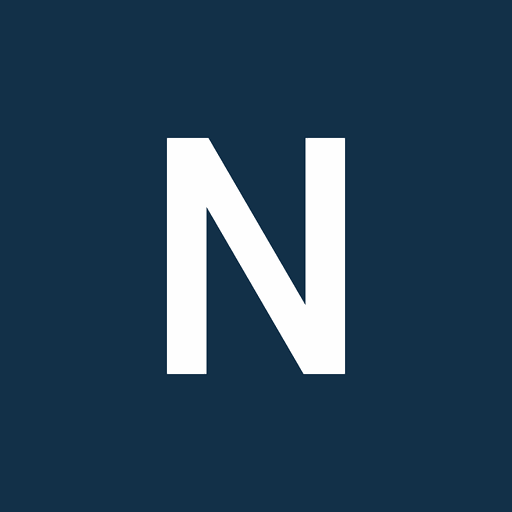
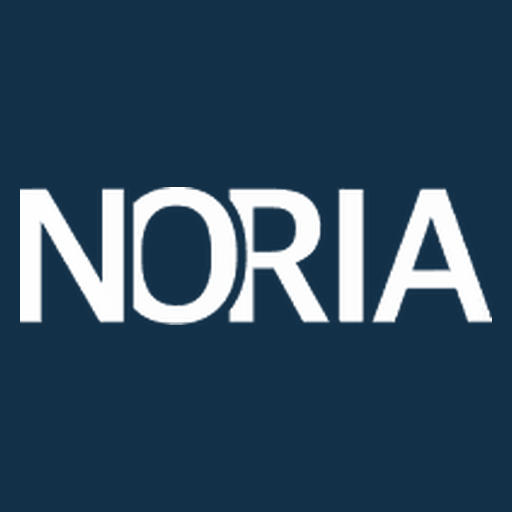
fix: icône et splash NORIA Élève au mot-symbole (1.0.2)
Le lanceur montrait le N blanc de src/icon-512.png. Le mot-symbole
NORIA, blanc sur #123048, tient dans la zone sûre adaptative.
versionCode 3, versionName 1.0.2.

Changed region(s): [[0.0312, 0.25, 0.9688, 0.75]]

diff --git a/android/eleve/scripts/generer-icones.py b/android/eleve/scripts/generer-icones.py
@@ -1,9 +1,23 @@
 #!/usr/bin/env python3
-"""Régénère les icônes Android à partir des visuels déjà dans le dépôt.
+"""Régénère les icônes Android à partir du mot-symbole NORIA.
 
-Source du lanceur et de l'écran de démarrage : src/icon-512.png (N blanc sur fond marine).
-Source de la bannière Play Console : src/noria-logo.png (mot-symbole).
-Aucune image n'est dessinée à la main : on recadre et on redimensionne.
+Source : src/noria-logo.png (mot-symbole + slogan, fond transparent).
+On ne garde que la bande « NORIA ». Le slogan (« Une école, une famille
+et un avenir ») disparaît à la taille d'une icône.
+
+Le fichier « blanc » joint à la demande est le même mot-symbole bleu posé
+sur une plaque blanche, pas un glyphe clair. Le glyphe blanc est donc
+dérivé ici : on garde l'alpha du logo et on peint les pixels en blanc.
+
+Fond retenu : bleu marine #123048 (déjà iconBackground, favicon, ancien N).
+À 48 px le blanc sur marine reste plus lisible que le bleu sur blanc :
+les traits clairs tiennent, et le carré ne se fond pas dans un lanceur clair.
+
+Zone sûre adaptative : cercle de 66 dp dans un calque de 108 dp. Le
+rectangle du mot-symbole est inscrit dans ce cercle (marge comprise).
+Les mipmap historiques (Android 7) et la fiche Play n'ont pas ce calque :
+le mot-symbole y est inscrit dans le cercle du carré, pour rester lisible
+de 48 à 192 px.
 """
 from pathlib import Path
 
@@ -22,32 +36,90 @@ DENSITIES = {
     "mipmap-xxxhdpi": 192,
 }
 
+# Bleu marine du favicon et de l'ancien N (src/favicon.svg, colors.xml).
+NAVY = (0x12, 0x30, 0x48, 255)
+
+# Marge à l'intérieur du cercle, pour que l'anticrénelage ne touche pas le masque.
+SAFE_MARGIN = 0.96
+
+
+def wordmark():
+    """Bande NORIA seule, glyphe blanc, alpha d'origine."""
+    logo = Image.open(ROOT / "src" / "noria-logo.png").convert("RGBA")
+    # Le slogan commence vers y=96 (fichier 253×136). On coupe avant.
+    band = logo.crop((0, 0, logo.width, 90))
+    alpha = band.getchannel("A")
+    bbox = alpha.point(lambda p: 255 if p > 20 else 0).getbbox()
+    if bbox is None:
+        raise SystemExit("mot-symbole introuvable dans src/noria-logo.png")
+    cropped = band.crop(bbox)
+    white = Image.new("RGBA", cropped.size, (255, 255, 255, 0))
+    white.putalpha(cropped.getchannel("A"))
+    return white
+
+
+def max_width_fraction(aspect, diameter_fraction):
+    """Plus grande largeur d'un rectangle (aspect largeur/hauteur) inscrit dans un cercle."""
+    radius = diameter_fraction / 2
+    return (2 * radius / (1 + 1 / aspect**2) ** 0.5) * SAFE_MARGIN
+
+
+def compose(size, mark, width_fraction, background):
+    canvas = Image.new("RGBA", (size, size), background)
+    tw = max(1, round(size * width_fraction))
+    th = max(1, round(tw * mark.height / mark.width))
+    resized = mark.resize((tw, th), Image.Resampling.LANCZOS)
+    canvas.alpha_composite(resized, ((size - tw) // 2, (size - th) // 2))
+    return canvas
+
+
+def save_png(image, path):
+    path.parent.mkdir(parents=True, exist_ok=True)
+    image.save(path, optimize=True)
+
 
 def main():
-    icon = Image.open(ROOT / "src" / "icon-512.png").convert("RGBA")
+    mark = wordmark()
+    aspect = mark.width / mark.height
+    # Calque adaptatif : cercle de 66 dp sur 108. Mipmap et fiche Play :
+    # cercle du carré lui-même (pas de calque élargi).
+    adaptive_fraction = max_width_fraction(aspect, 66 / 108)
+    legacy_fraction = max_width_fraction(aspect, 1.0)
+    # Splash en ScaleType.CENTER, sans mise à l'échelle (drawable-nodpi).
+    # Un écran étroit (~320 px) rogne une image de 512 px : le mot reste
+    # dans la bande centrale.
+    splash_fraction = min(legacy_fraction, 300 / 512)
+
     for folder, size in DENSITIES.items():
-        out = APP_RES / folder
-        out.mkdir(parents=True, exist_ok=True)
-        icon.resize((size, size), Image.Resampling.LANCZOS).save(out / "ic_launcher.png")
-    # Premier plan adaptatif : le carré complet. Le fond (colors.xml, iconBackground)
-    # reprend le pixel du coin, donc le masque du lanceur ne laisse pas de liseré.
-    fg = APP_RES / "drawable-nodpi"
-    fg.mkdir(parents=True, exist_ok=True)
-    icon.save(fg / "ic_launcher_foreground.png")
-    icon.save(fg / "splash.png")
+        icon = compose(size, mark, legacy_fraction, NAVY)
+        save_png(icon, APP_RES / folder / "ic_launcher.png")
+
+    # Premier plan adaptatif. 432 px = 108 dp × 4 (xxxhdpi). Fond transparent :
+    # la couleur vient de colors.xml (iconBackground), donc le masque n'a pas de liseré.
+    foreground = compose(432, mark, adaptive_fraction, (0, 0, 0, 0))
+    save_png(foreground, APP_RES / "drawable-nodpi" / "ic_launcher_foreground.png")
+
+    splash = compose(512, mark, splash_fraction, NAVY)
+    save_png(splash, APP_RES / "drawable-nodpi" / "splash.png")
 
     PLAY.mkdir(parents=True, exist_ok=True)
-    icon.save(PLAY / "icone-512.png")
+    save_png(compose(512, mark, legacy_fraction, NAVY), PLAY / "icone-512.png")
 
+    # Bannière Play : mot-symbole complet (avec slogan) sur le fond de page du manifeste web.
     logo = Image.open(ROOT / "src" / "noria-logo.png").convert("RGBA")
-    # Fond de page du manifeste web (#f3f2ef), pour une bannière lisible sur la fiche Play.
     banner = Image.new("RGBA", (1024, 500), (243, 242, 239, 255))
     scale = min(760 / logo.width, 280 / logo.height)
-    resized = logo.resize((round(logo.width * scale), round(logo.height * scale)), Image.Resampling.LANCZOS)
+    resized = logo.resize(
+        (round(logo.width * scale), round(logo.height * scale)),
+        Image.Resampling.LANCZOS,
+    )
     banner.alpha_composite(resized, ((1024 - resized.width) // 2, (500 - resized.height) // 2))
+    # Même enregistrement qu'avant : ne pas changer l'encodage, la bannière ne bouge pas.
     banner.convert("RGB").save(PLAY / "banniere-1024x500.png", quality=95)
-    corner = icon.getpixel((0, 0))
-    print(f"fond icône #{corner[0]:02X}{corner[1]:02X}{corner[2]:02X}")
+
+    print(f"mot-symbole {mark.width}×{mark.height} px")
+    print(f"fond #123048")
+    print(f"largeur adaptative {adaptive_fraction:.3f} du calque, historique {legacy_fraction:.3f}")
 
 
 if __name__ == "__main__":

diff --git a/android/eleve/README.md b/android/eleve/README.md
@@ -23,11 +23,11 @@ Capacitor embarquerait un second projet natif et une WebView à maintenir, pour 
 |---|---|
 | Nom affiché | NORIA Élève |
 | Identifiant de paquet | `ca.klirline.noria.eleve` |
-| Version | `1.0.1` (versionCode `2`) |
+| Version | `1.0.2` (versionCode `3`) |
 | Adresse ouverte | `https://noriaedu.com/app` |
 | SDK minimal | Android 7 (API 24) |
 | SDK cible | Android 16 (API 36), exigé par Play pour une nouvelle appli |
-| Icône | `src/icon-512.png` (N blanc, fond `#123048`) |
+| Icône | Mot-symbole NORIA blanc, fond `#123048` |
 | Barre d’état | `#0E1218`, comme `theme_color` du manifeste web |
 
 L’identifiant `ca.klirline` suit le domaine de Klirline Inc. (`contact@klirline.ca`). Une fois la fiche créée dans Play Console, ce paquet ne se renomme pas.
@@ -66,15 +66,22 @@ printf 'sdk.dir=%s\n' "$ANDROID_HOME" > local.properties
 
 ## Icônes
 
-Déjà générées depuis `src/icon-512.png` et `src/noria-logo.png`. Pour les refaire (Python 3, Pillow) :
+Le lanceur, l’écran de démarrage et la fiche Play montrent le mot-symbole **NORIA** en blanc sur le bleu marine `#123048`. Le N blanc de `src/icon-512.png` reste l’icône du site installé depuis le navigateur ; cette coque ne le reprend plus. Le slogan du logo est illisible à cette taille : seule la bande « NORIA » de `src/noria-logo.png` est gardée. Le glyphe blanc reprend l’alpha de ce fichier.
+
+À 48 px, le blanc sur marine se lit mieux que le bleu sur blanc, et le carré reste visible sur un lanceur clair. Le mot-symbole tient dans le cercle sûr de l’icône adaptative (66 dp dans un calque de 108 dp). `iconBackground` et `splashBackground` sont ce même `#123048`.
+
+`twa-manifest.json` garde `iconUrl` vers l’icône web (le N). Les images de cette coque viennent du script ci-dessous, pas de cette URL.
+
+Pour les refaire (Python 3, Pillow) :
 
 ```bash
 python3 android/eleve/scripts/generer-icones.py
 ```
 
-- Lanceur : `app/src/main/res/mipmap-*/ic_launcher.png` et l’icône adaptative.
+- Lanceur : `app/src/main/res/mipmap-*/ic_launcher.png` et l’icône adaptative (`ic_launcher_foreground` sur `iconBackground`).
+- Écran de démarrage : `app/src/main/res/drawable-nodpi/splash.png`.
 - Fiche Play, 512×512 : `play/icone-512.png`.
-- Bannière de fiche, 1024×500 : `play/banniere-1024x500.png` (le mot-symbole sur le fond `#f3f2ef`). On peut la remplacer par une autre image aux mêmes dimensions.
+- Bannière de fiche, 1024×500 : `play/banniere-1024x500.png` (le logo complet, slogan compris, sur le fond `#f3f2ef`). On peut la remplacer par une autre image aux mêmes dimensions.
 
 ## Produire l’AAB
 
